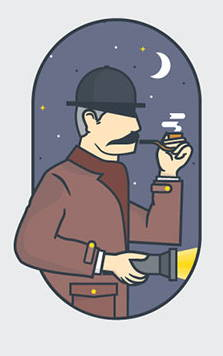
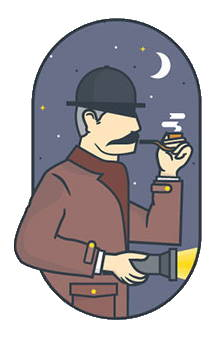
Update

diff --git a/index.html b/index.html
@@ -8,11 +8,13 @@
     <title>Serlokas</title>
 </head>
 
-<body>
-   <img style="display: inline-block; width: 20%; margin-left: 20%; margin-right: 10%; margin-top: 7%; float: left;" src="serlokas.jpg" alt="Serloko nuotrauka">   
-    <div style="display: inline-block; width: 30%; float: left; background-color: yellow; margin-top: 10%; text-align: center;">
-        <h1 style="display: inline-block; width: 100%; font-size: 80px;">404</h1>
-        <p style="display: inline-block; width: 100%; font-size: 24px;">Lorem ipsum dolor sit amet consectetur adipisicing elit. Similique quisquam architecto praesentium officiis. Tempore, fuga!</p>
+<!--EAEBED-->
+
+<body style="background-color: #EAEBED;">
+   <img style="display: inline-block; width: 20%; float: left; margin-left: 22.5%; margin-right: 5%; margin-top: 7%;" src="serlokas.png" alt="Serloko nuotrauka">   
+    <div style="display: inline-block; width: 30%; float: left; margin-top: 15%; text-align: center;">
+        <h1 style="display: inline-block; width: 100%; font-size: 80px; margin-top: 0; margin-bottom: 0;">404</h1>
+        <p style="display: inline-block; width: 100%; font-size: 24px; margin-top: 0; margin-bottom: 0;">Lorem ipsum dolor sit amet consectetur adipisicing elit. Similique quisquam architecto praesentium officiis. Tempore, fuga!</p>
         <p style="display: inline-block; width: 100%;">Lorem ipsum dolor sit amet consectetur.</p>
         <a style="display: inline-block; background-color: rgb(105, 111, 137); color: white; font-size: 20px; padding: 20px;" href="#">Back home</a>
     </div>
@@ -27,7 +29,7 @@ width: 50%;                    //sita rasome VISIEMS ELEMENTAMS, plotis pagal po
 display: inline-block;        //sita rasome VISIEMS elementams, kurie yra bodyje                         
 float:left;
 
-norint atstumti elemtus tarpusavyje:
+norint atstumti elementus tarpusavyje:
 margin 20px;          //visomis kryptimis atsistumia per 20px
 margin-left: 12.5%;
 margin-right:12.5%;
